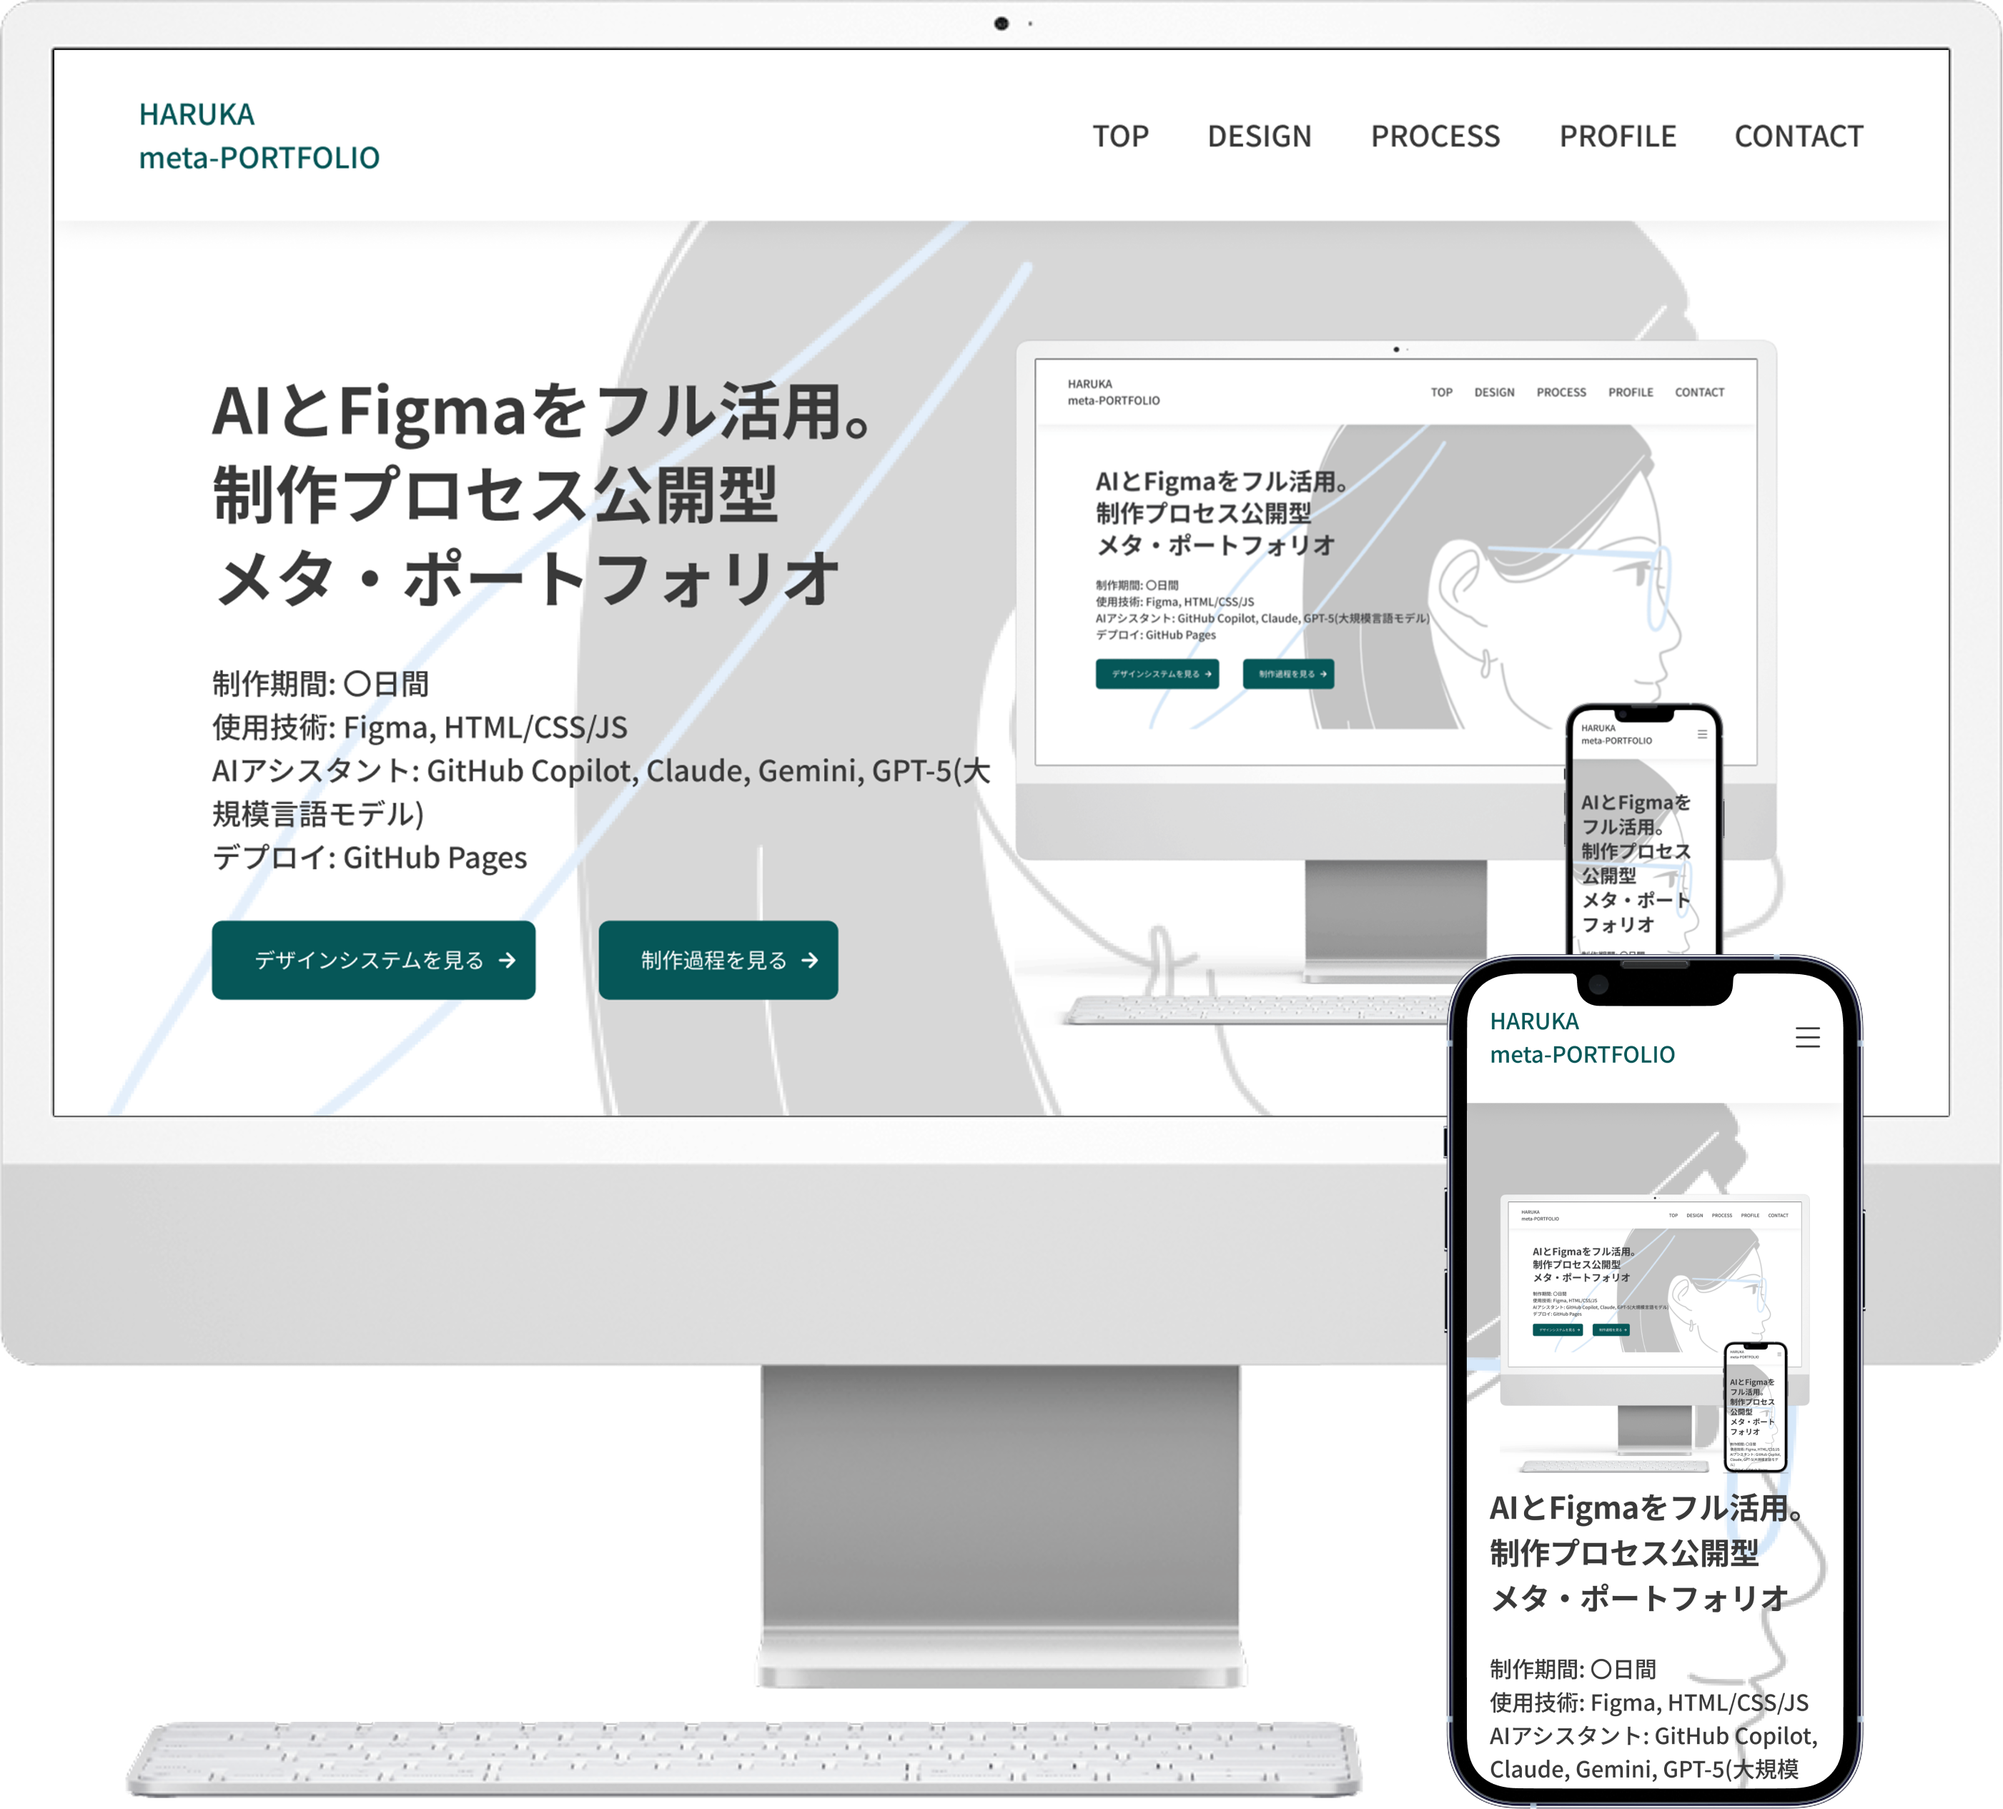
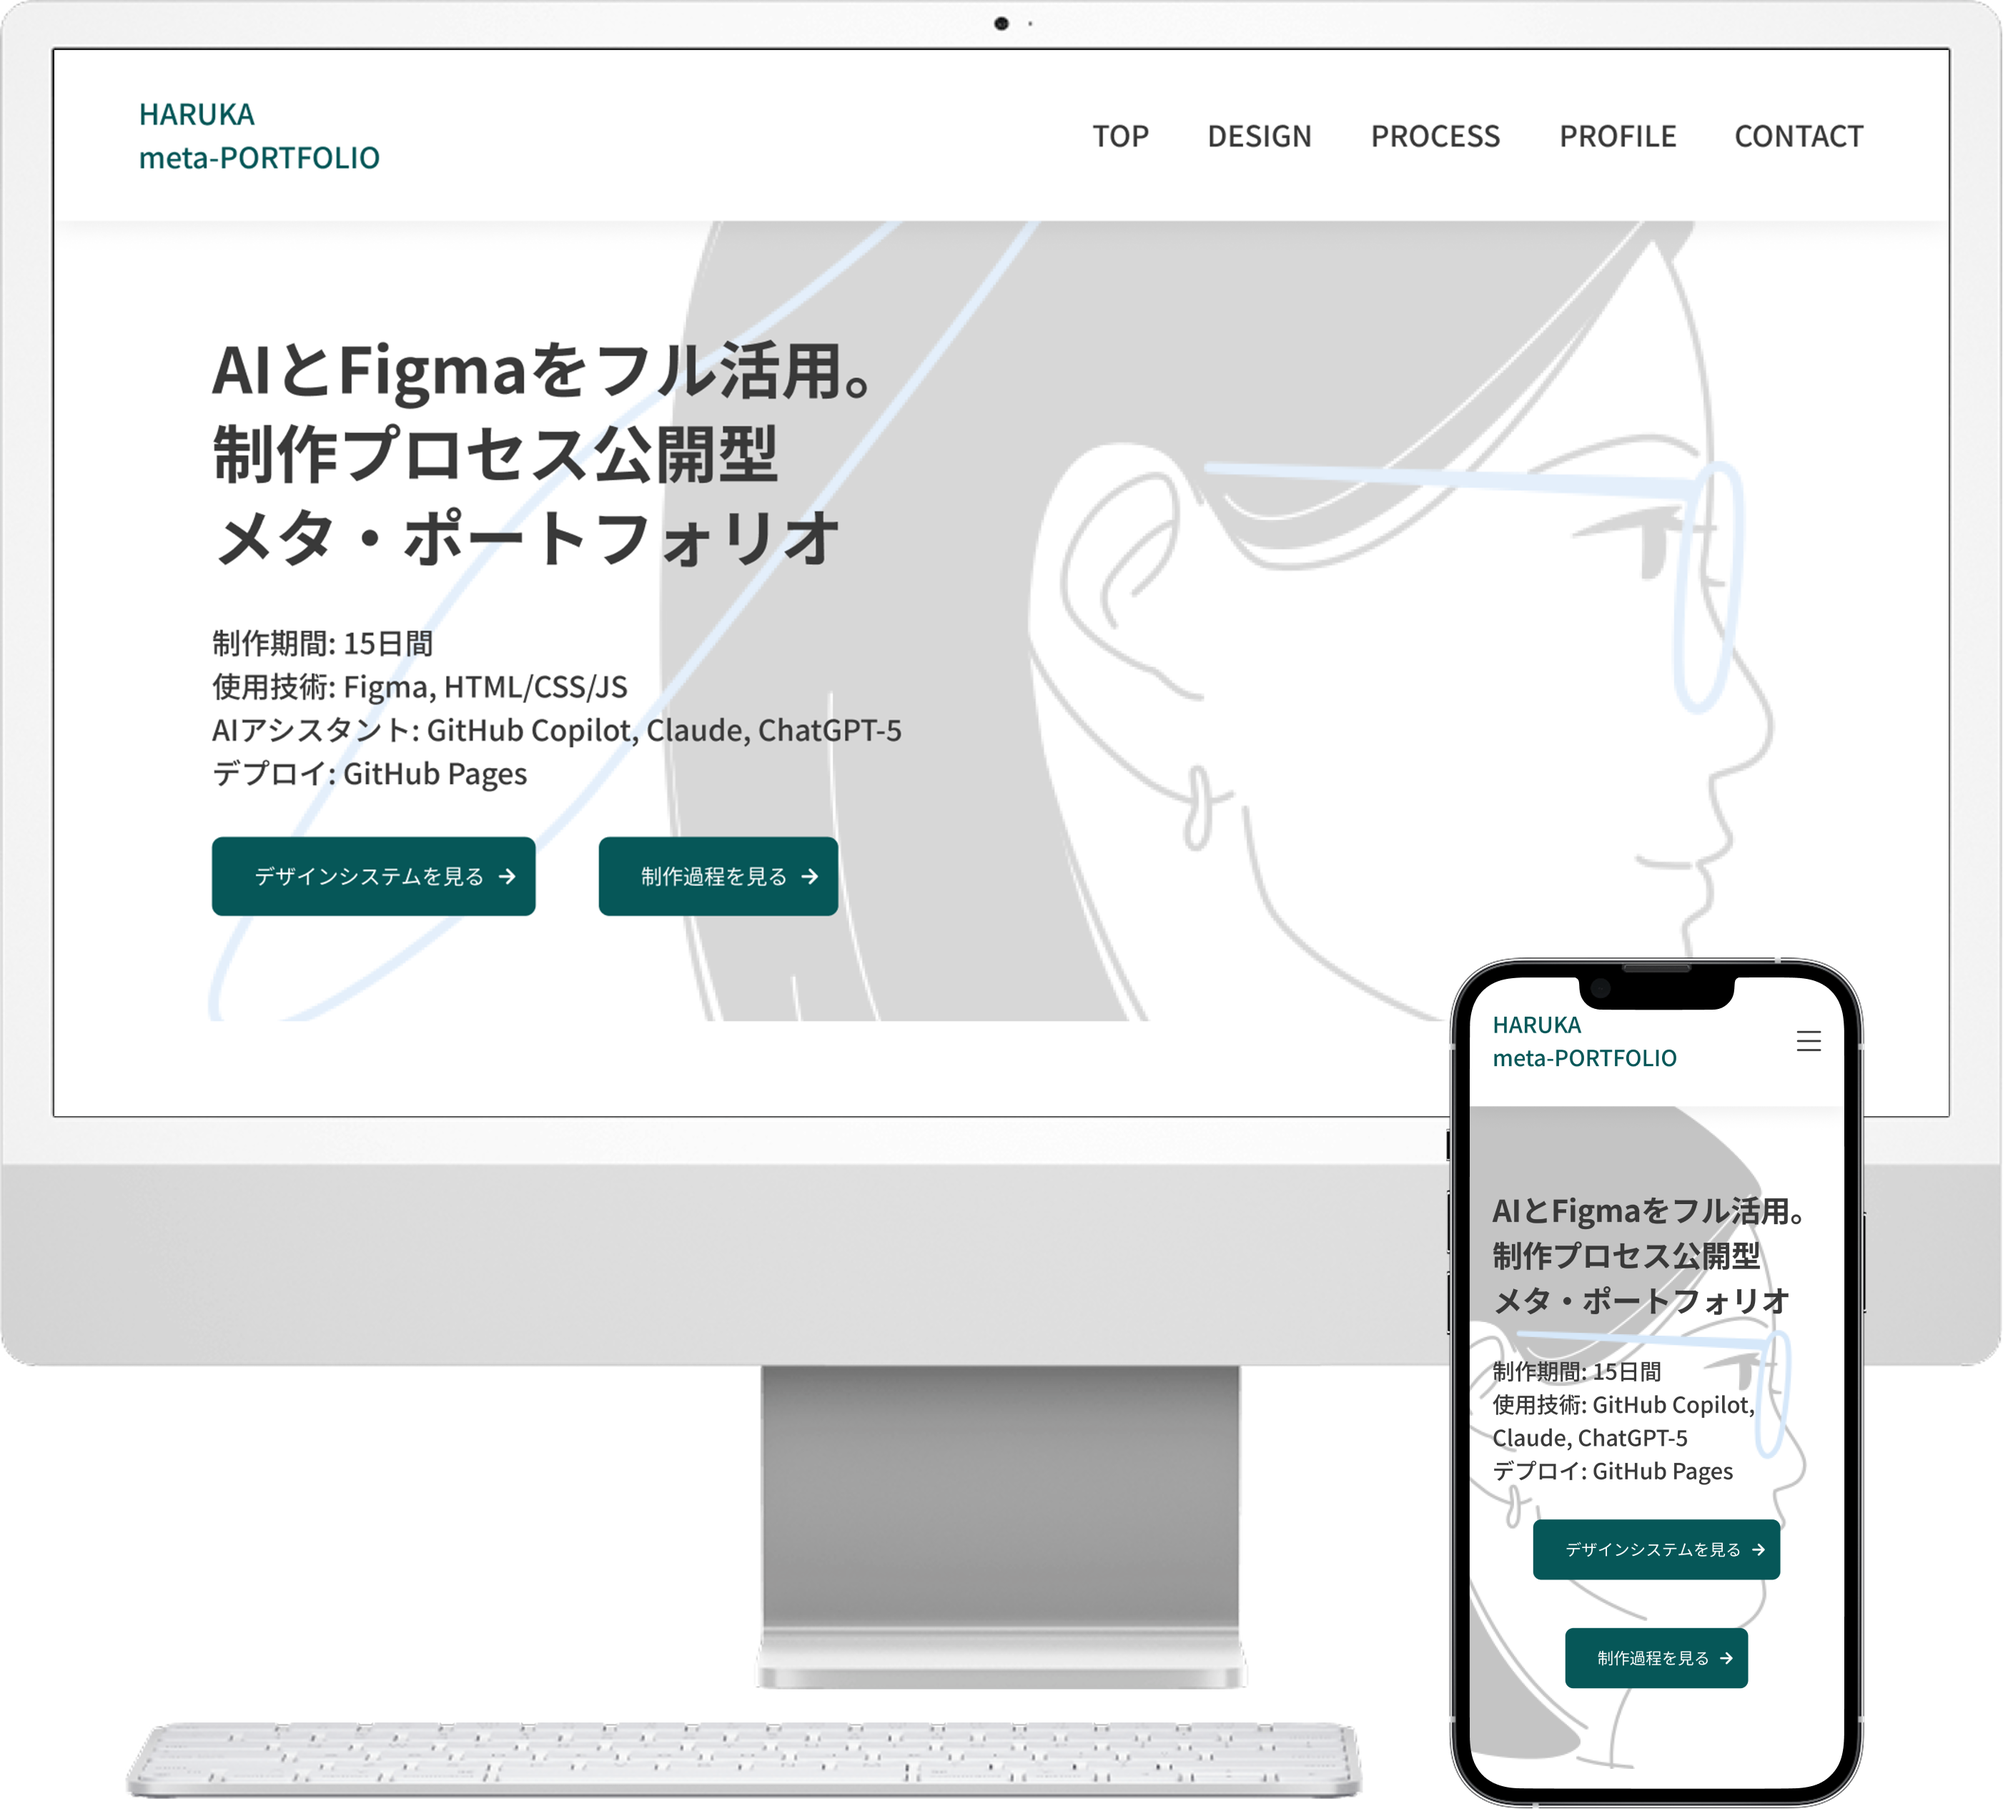
MV画像の15日間を修正、MVとPROCESSの文字間修正、PROCESSのSTEP01にID追加

Changed region(s): [[0.0931, 0.1249, 0.9315, 1.0], [0.031, 0.5621, 0.0931, 0.6245], [0.1552, 0.5933, 0.1863, 0.6245]]

diff --git a/process.html b/process.html
@@ -111,7 +111,7 @@
                 </div>
 
                 <!-- プロセス全体 -->
-                <div class="Group_AllProcess">
+                <div class="Group_AllProcess" id="Step01">
                     <div class="Process_Nav_Item Process_Nav_Item__Background01">
                         <span class="Process_Nav_Item__number">01</span>
                         <span class="Process_Nav_Item__label">企画・設計</span>
@@ -143,7 +143,7 @@
             <div class="Container_1200">
 
                 <!-- STEP 01 -->
-                <div class="Process_Step" id="Step01">
+                <div class="Process_Step">
                     <div class="Process_Step__header">
                         <div class="Process_Step__badge">
                             <span class="Process_Step__badge-label">STEP</span>

diff --git a/style.css b/style.css
@@ -758,6 +758,10 @@ Section: Hero
   gap: 24px;
 }
 
+.Content_Hero_Main__description {
+  letter-spacing: -0.02rem;
+}
+
 .Content_Hero_Main__buttons {
   display: flex;
   gap: 16px;
@@ -1762,7 +1766,7 @@ Section: Hero
 }
 
 .Process_Nav_Item__Background02 {
-  background: #1c6f70 url(img/AllProcess_arrow-right/PC-01.svg) no-repeat center left 0;
+  background: #1d7071 url(img/AllProcess_arrow-right/PC-01.svg) no-repeat center left 0;
   background-size: 24px;
 }
 
@@ -1862,6 +1866,7 @@ Section: Hero
   font-weight: 700;
   color: var(--color-primary);
   margin-bottom: 8px;
+  letter-spacing: -0.01rem;
 }
 
 .Process_Step__description {
